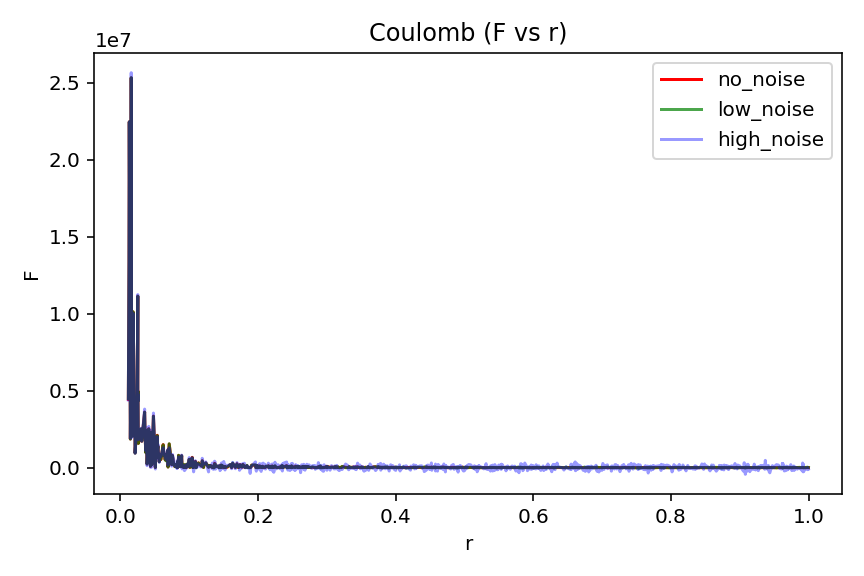
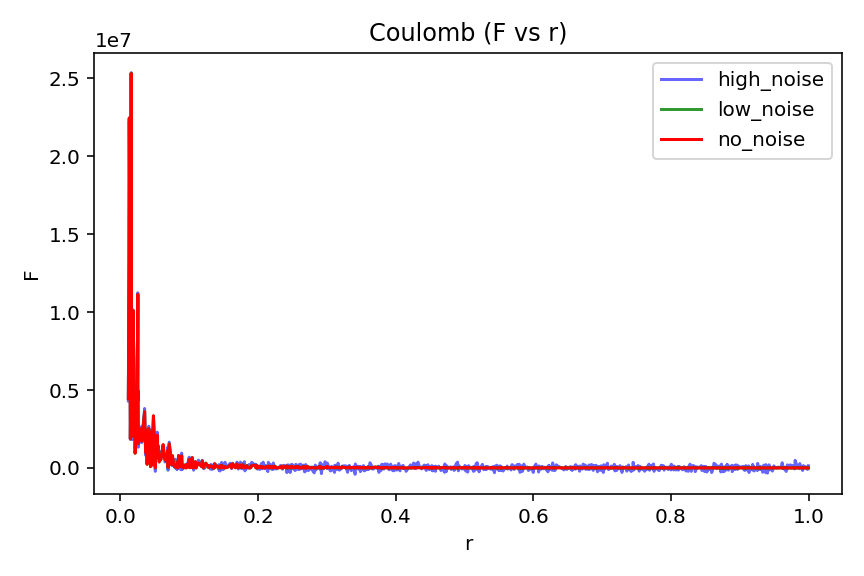
añado datasets y plots

diff --git a/data_generator/data_generator.py b/data_generator/data_generator.py
@@ -99,30 +99,28 @@ os.makedirs("plots", exist_ok=True)
 
 def plot_law(generate_func, headers, law_name, x_idx, y_idx):
     """Genera plot de línea con los 3 niveles de ruido"""
-    base_data = generate_func()
-    plt.figure()
+    base_data = generate_func() #generamos los datos base
+    plt.figure() #comenzamos con la figura
+    colors = {"no_noise": "red", "low_noise": "green", "high_noise": "blue"} # definir los colores para cada nivel de ruido
+    alpha_values = {"no_noise": 1.0, "low_noise": 0.8, "high_noise": 0.6} # añadimos algo de transparencia
 
-    # Orden de plot: no_noise adelante, luego low_noise, luego high_noise al fondo
-    colors = {"no_noise": "red", "low_noise": "green", "high_noise": "blue"}
-    alpha_values = {"no_noise": 1.0, "low_noise": 0.7, "high_noise": 0.4}
-
-    for noise_name in ["no_noise", "low_noise", "high_noise"]:
-        data = base_data.copy()
-        data[:, -1] = add_noise(data[:, -1], NOISE_LEVELS[noise_name])
-        # ordenar por x para que las líneas se vean correctas
-        sorted_idx = np.argsort(data[:, x_idx])
+    for noise_name in ["high_noise", "low_noise", "no_noise"]: # Orden de plot: no_noise adelante, luego low_noise, luego high_noise al fondo
+        data = base_data.copy() # cargamos los valores de los resultados de las leyes
+        data[:, -1] = add_noise(data[:, -1], NOISE_LEVELS[noise_name]) # añadimos ruido
+        sorted_idx = np.argsort(data[:, x_idx]) # ordenamos los valores por x para que las líneas se vean correctamente
         plt.plot(data[sorted_idx, x_idx], data[sorted_idx, y_idx],
                  color=colors[noise_name], alpha=alpha_values[noise_name],
-                 label=noise_name)
+                 label=noise_name) #ploteamos los datos
 
-    plt.xlabel(headers[x_idx])
+    # el nombre de los ejes son los de los encabezados
+    plt.xlabel(headers[x_idx]) 
     plt.ylabel(headers[y_idx])
-    plt.title(law_name)
-    plt.legend()
-    plt.tight_layout()
-    plt.savefig(f"plots/{law_name}.png")
-    plt.show()
-    plt.close()
+    plt.title(law_name) # el título es el de la ley de la que obtenemos los datos
+    plt.legend() # mostramos la leyenda en la figura
+    plt.tight_layout() # estilo de la figura
+    plt.savefig(f"plots/{law_name}.png") # guardamos la figura en la carpeta plot con el nombre de la ley
+    plt.show() # mostramos la figura
+    plt.close() # la cerramos (en Spyder o VS Code con una extensión aparece la imagen)
 
 
 if __name__ == "__main__":
